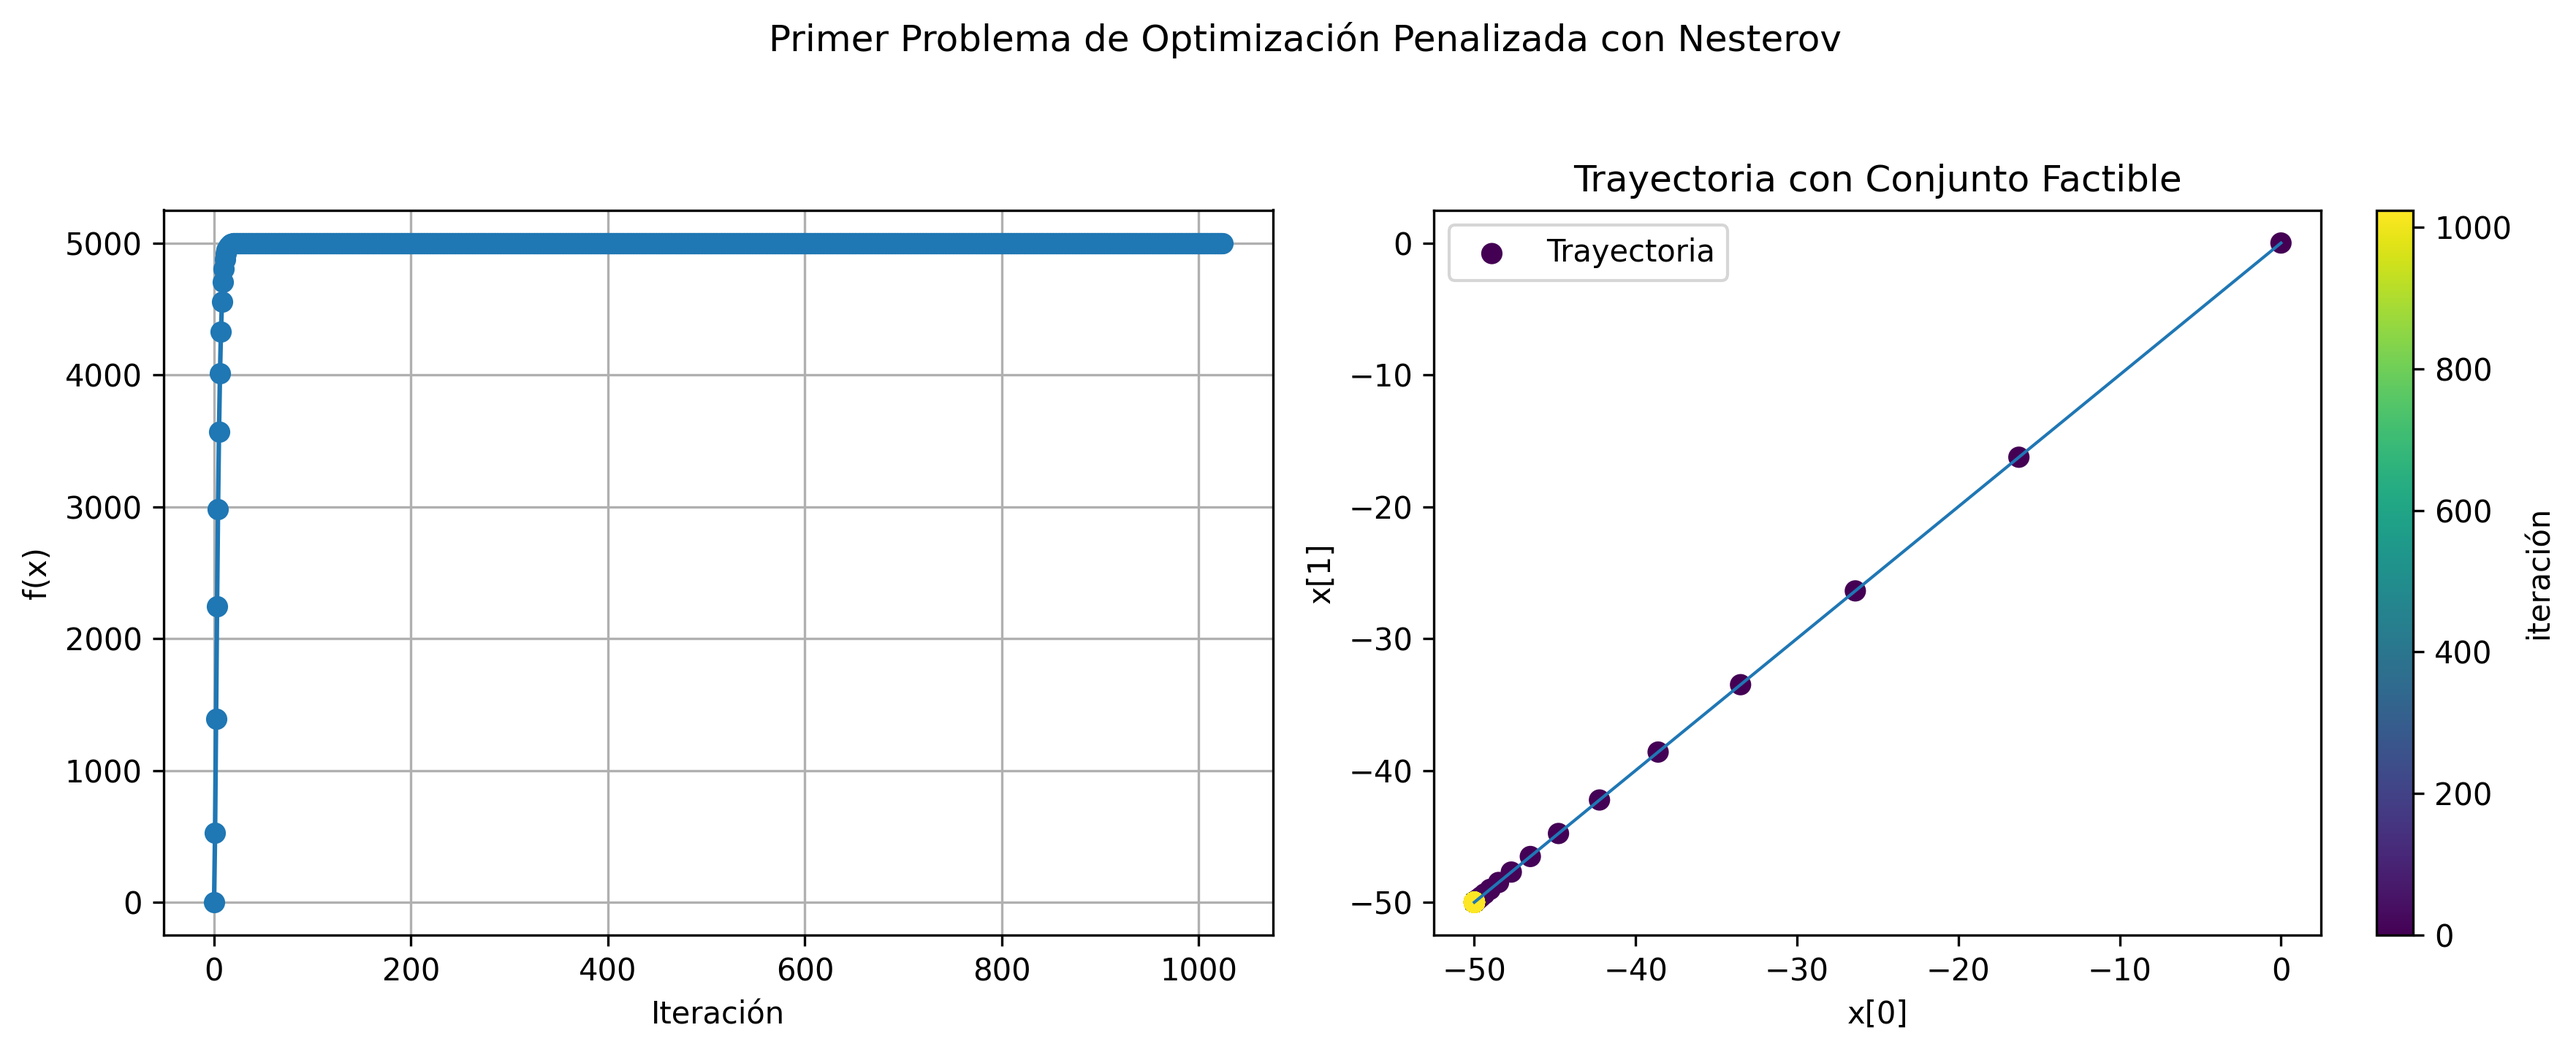
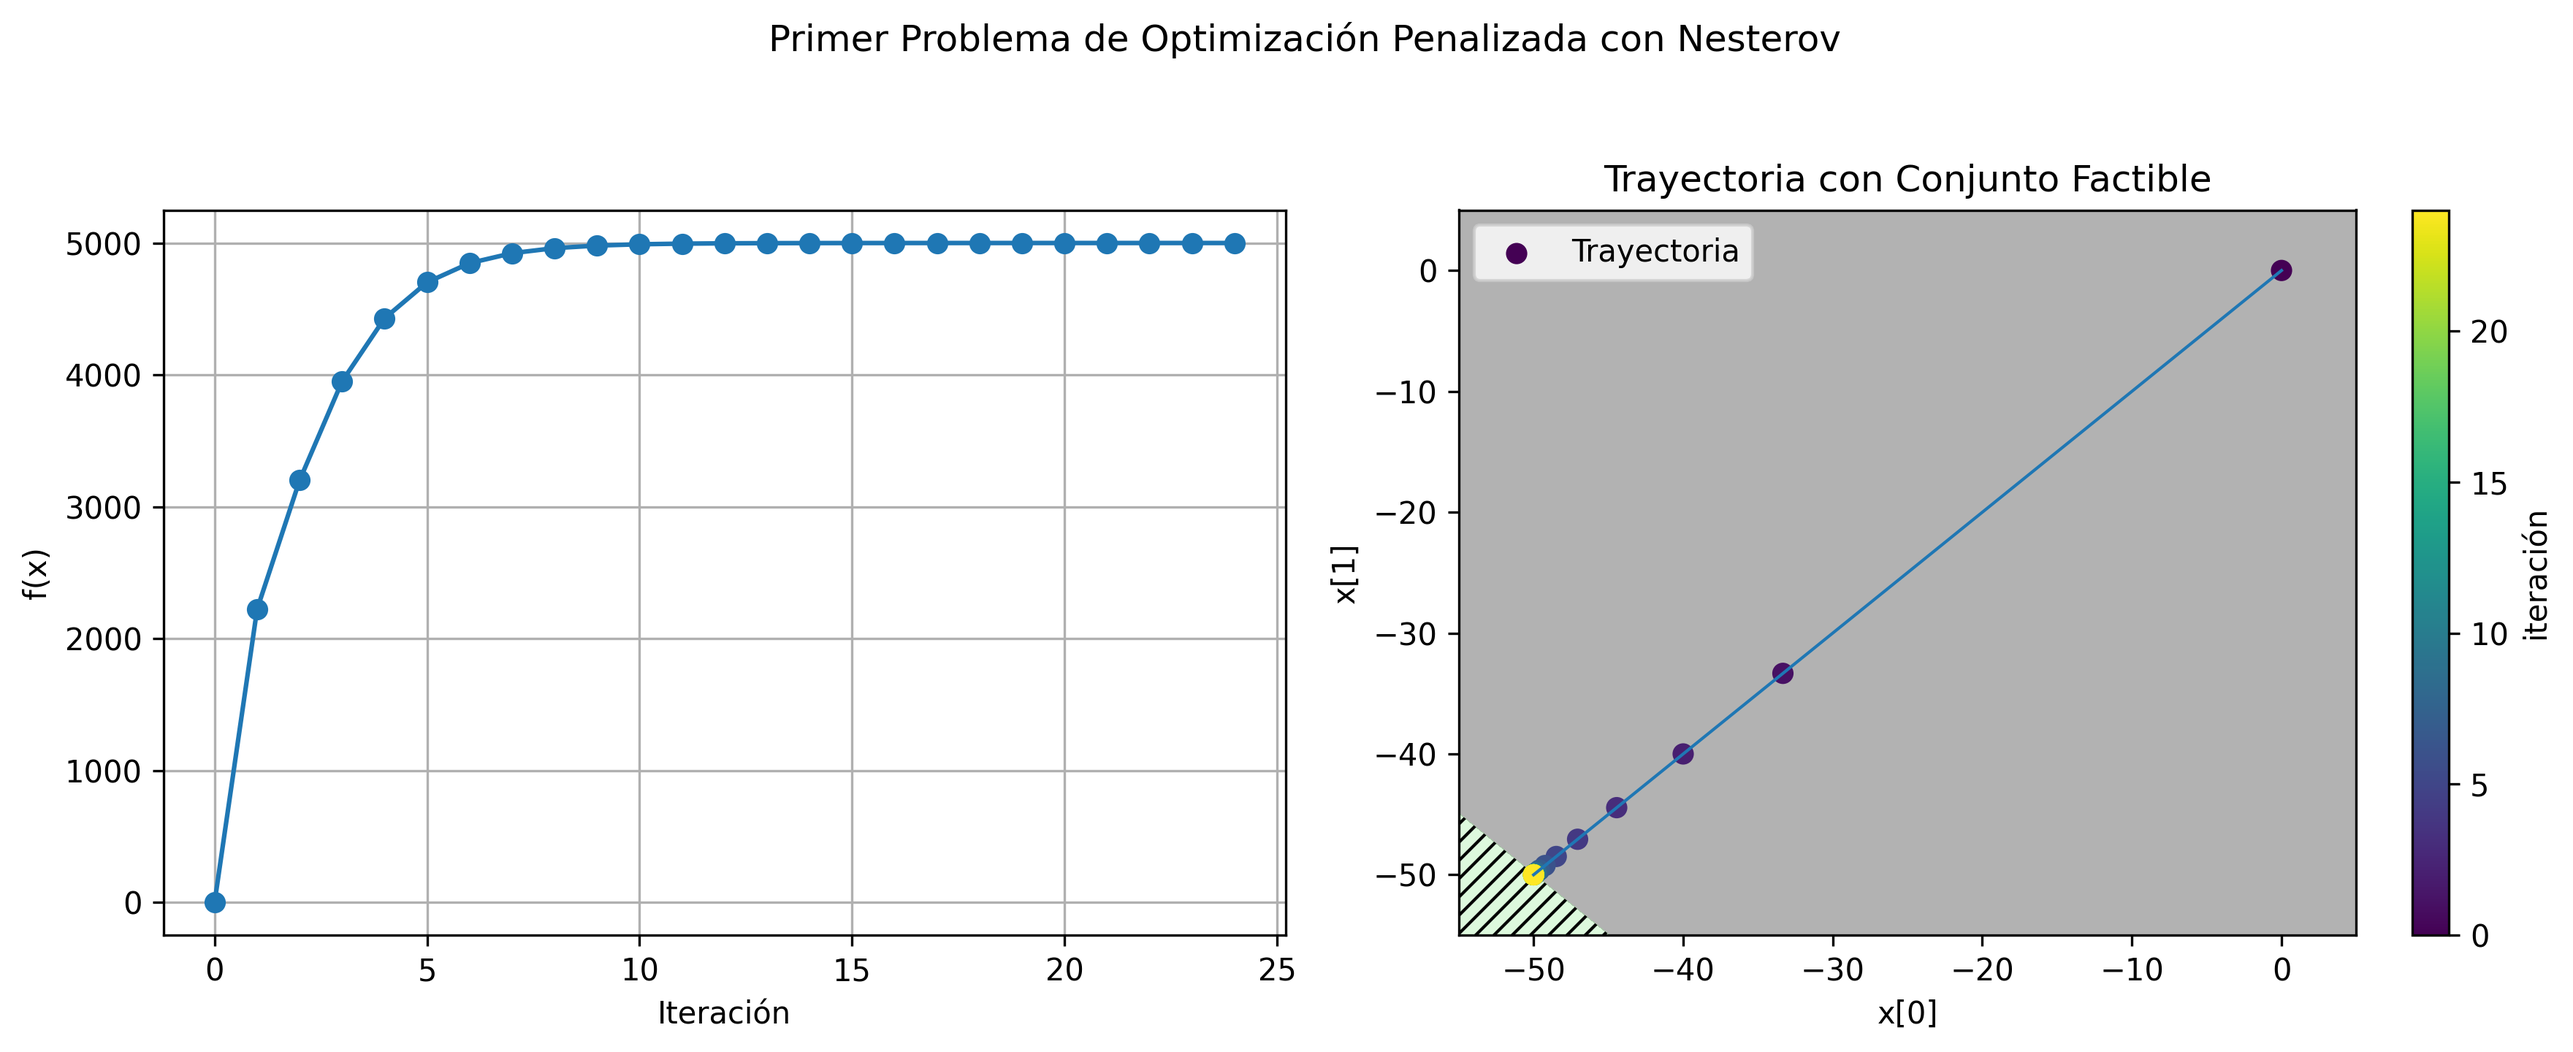
up tweak

diff --git a/fescent/C3.py b/fescent/C3.py
@@ -201,7 +201,7 @@ beta = 2.0
 eps = 1e-3
 x0 = np.array([0.0, 0.0])
 
-alpha_solver = 0.001
+alpha_solver = 0.1
 beta_solver = 0.1
 
 
@@ -243,6 +243,8 @@ b = np.array([5])
 
 E = np.array([[1, -5]])
 e = np.array([2])
+
+alpha_solver = 0.001
 
 
 x_list, f_list, iterations = penaliced_optimization(
